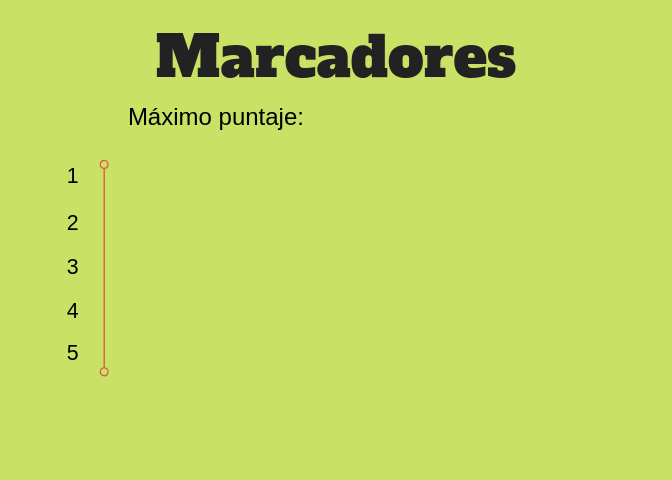
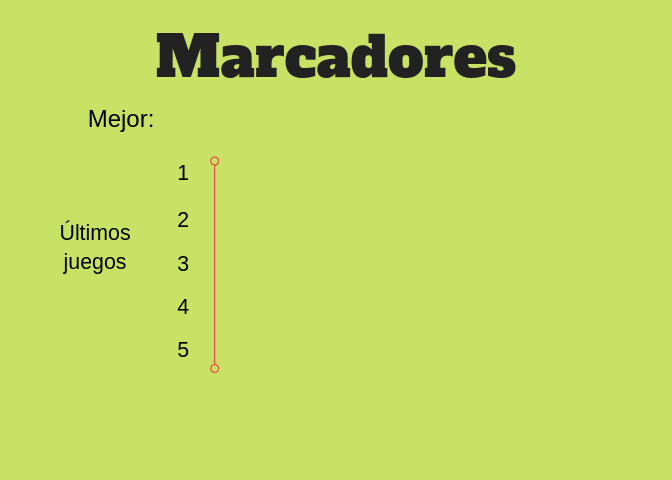
[P1] Historial de puntuaciones en funcionamiento

diff --git a/P1/SquashGame/SquashGame/Marcador/Modelo/Marcador.swift b/P1/SquashGame/SquashGame/Marcador/Modelo/Marcador.swift
@@ -11,7 +11,7 @@ import Foundation
 class Marcador {
     
     var puntuaciones = [Int]()
-    var fechas = [String]()
+    var historial = [String]()
     
     /**
      Carga el historial del dispositivo.
@@ -33,35 +33,54 @@ class Marcador {
         
         // Añadir elemento si el historial está vacío
         guard self.puntuaciones.count != 0 else {
-            self.puntuaciones.append(puntaje)
-            self.fechas.append(self.fechaDeCreacion())
-            self.guardarHistorial()
+            self.creaRegistro(totalDePuntos: puntaje, en: 0)
             return
         }
         
-        // Verificar si entra en el top
-        var nuevoElemento = false    // Bandera
-        for (index, numero) in self.puntuaciones.enumerated() {
-            if puntaje >= numero {
-                self.puntuaciones.insert(puntaje, at: index)
-                self.fechas.insert(self.fechaDeCreacion(), at: index)
-                nuevoElemento.toggle()
-                break
-            }
+        // Verificar si es el mejor
+        if puntaje > self.puntuaciones[0] {
+            self.creaRegistro(totalDePuntos: puntaje, en: 0)
+        } else {
+            self.creaRegistro(totalDePuntos: puntaje, en: nil)
         }
-        
-        if !nuevoElemento && self.puntuaciones.count < 6 {
-            self.puntuaciones.append(puntaje)
-            self.fechas.append(self.fechaDeCreacion())
-            self.guardarHistorial()
+    }
+    
+    /**
+     Añade un elemento al historial de partidas.
+     
+     - Parameter totalDePuntos: Puntuación obtenida en la partida.
+     - Parameter indice: Indica la posición donde agregar al elemento. Si es nil al final.
+     */
+    private func creaRegistro(totalDePuntos: Int, en indice: Int?) {
+        // No agregar más si ya son seis
+        guard self.puntuaciones.count <= 6 else {
             return
         }
         
-        // Borrar elementos que salgan del top
+        // Crear entrada
+        var texto: String
+        let fechaDeRegistro = self.fechaDeCreacion()
+        if totalDePuntos == 1 {
+            texto = "Obtuviste \(totalDePuntos) punto el \(fechaDeRegistro)"
+        } else {
+            texto = "Obtuviste \(totalDePuntos) puntos el \(fechaDeRegistro)"
+        }
+        
+        // Agregar al historial
+        if let posicion = indice {
+            self.puntuaciones.insert(totalDePuntos, at: posicion)
+            self.historial.insert(texto, at: posicion)
+        } else {
+            self.puntuaciones.append(totalDePuntos)
+            self.historial.append(texto)
+        }
+        
+        // Borrar elementos extra
         if self.puntuaciones.count > 6 {
-            self.puntuaciones.removeLast()
-            self.fechas.removeLast()
+            self.puntuaciones.remove(at: 1)
+            self.historial.remove(at: 1)
         }
+        
         self.guardarHistorial()
     }
     
@@ -84,7 +103,7 @@ class Marcador {
         let año = calendarioActual.component(.year, from: fechaActual)
         let fecha = "\(dia)/\(mes)/\(año)"
         
-        return "\(fecha) \(tiempo)";
+        return "\(fecha) a las \(tiempo)";
     }
     
     /**
@@ -92,7 +111,7 @@ class Marcador {
      */
     func guardarHistorial() {
         let defaults = UserDefaults.standard
-        defaults.set(self.fechas, forKey: "fechas")
+        defaults.set(self.historial, forKey: "historial")
         defaults.set(self.puntuaciones, forKey: "puntos")
     }
     
@@ -101,7 +120,7 @@ class Marcador {
      */
     func cargarHistorial() {
         let defaults = UserDefaults.standard
-        self.fechas = defaults.stringArray(forKey: "fechas") ?? [String]()
+        self.historial = defaults.stringArray(forKey: "historial") ?? [String]()
         self.puntuaciones = defaults.array(forKey: "puntos") as? [Int] ?? [Int]()
     }
     
@@ -110,7 +129,7 @@ class Marcador {
      */
     func borrar() {
         self.puntuaciones.removeAll()
-        self.fechas.removeAll()
+        self.historial = [String]()
         self.guardarHistorial()
     }
 }

diff --git a/P1/SquashGame/SquashGame/Marcador/MarcadorViewController.swift b/P1/SquashGame/SquashGame/Marcador/MarcadorViewController.swift
@@ -13,7 +13,15 @@ class MarcadorViewController: UIViewController {
     @IBOutlet weak var botonRegresar: UIButton!
     @IBOutlet weak var botonBorrar: UIButton!
     
+    @IBOutlet weak var labelMaximaPuntuacion: UILabel!
+    @IBOutlet weak var primerLabel: UILabel!
+    @IBOutlet weak var segundoLabel: UILabel!
+    @IBOutlet weak var tercerLabel: UILabel!
+    @IBOutlet weak var cuartoLabel: UILabel!
+    @IBOutlet weak var quintoLabel: UILabel!
+    
     var marcador: Marcador? = nil
+    var labels = [UILabel]()
     
     /**
      Realiza acciones después de que se instanció el view.
@@ -22,6 +30,14 @@ class MarcadorViewController: UIViewController {
         super.viewDidLoad()
         self.marcador = Marcador()
         self.marcador!.cargarHistorial()
+        
+        // Añadir labels en arreglo para fácil interacción
+        self.labels.append(self.labelMaximaPuntuacion)
+        self.labels.append(self.quintoLabel)
+        self.labels.append(self.cuartoLabel)
+        self.labels.append(self.tercerLabel)
+        self.labels.append(self.segundoLabel)
+        self.labels.append(self.primerLabel)
     }
     
     /**
@@ -31,6 +47,7 @@ class MarcadorViewController: UIViewController {
         super.viewWillAppear(true)
         self.botonRegresar.layer.cornerRadius = 15
         self.botonBorrar.layer.cornerRadius = 15
+        self.mostrarHistorial()
     }
     
     /**
@@ -38,6 +55,21 @@ class MarcadorViewController: UIViewController {
      */
     @IBAction func borrarMarcador(_ sender: UIButton) {
         self.marcador!.borrar()
+        self.mostrarHistorial()
+    }
+    
+    /**
+     Actualiza el contenido de los labels con las puntuaciones.
+     */
+    private func mostrarHistorial() {
+        let totalDeElementos = self.marcador!.historial.count
+        for indice in 0...5 {
+            if totalDeElementos >= indice + 1 {
+                self.labels[indice].text = self.marcador!.historial[indice]
+            } else {
+                self.labels[indice].text = "Sin puntuación"
+            }
+        }
     }
     
     /**
